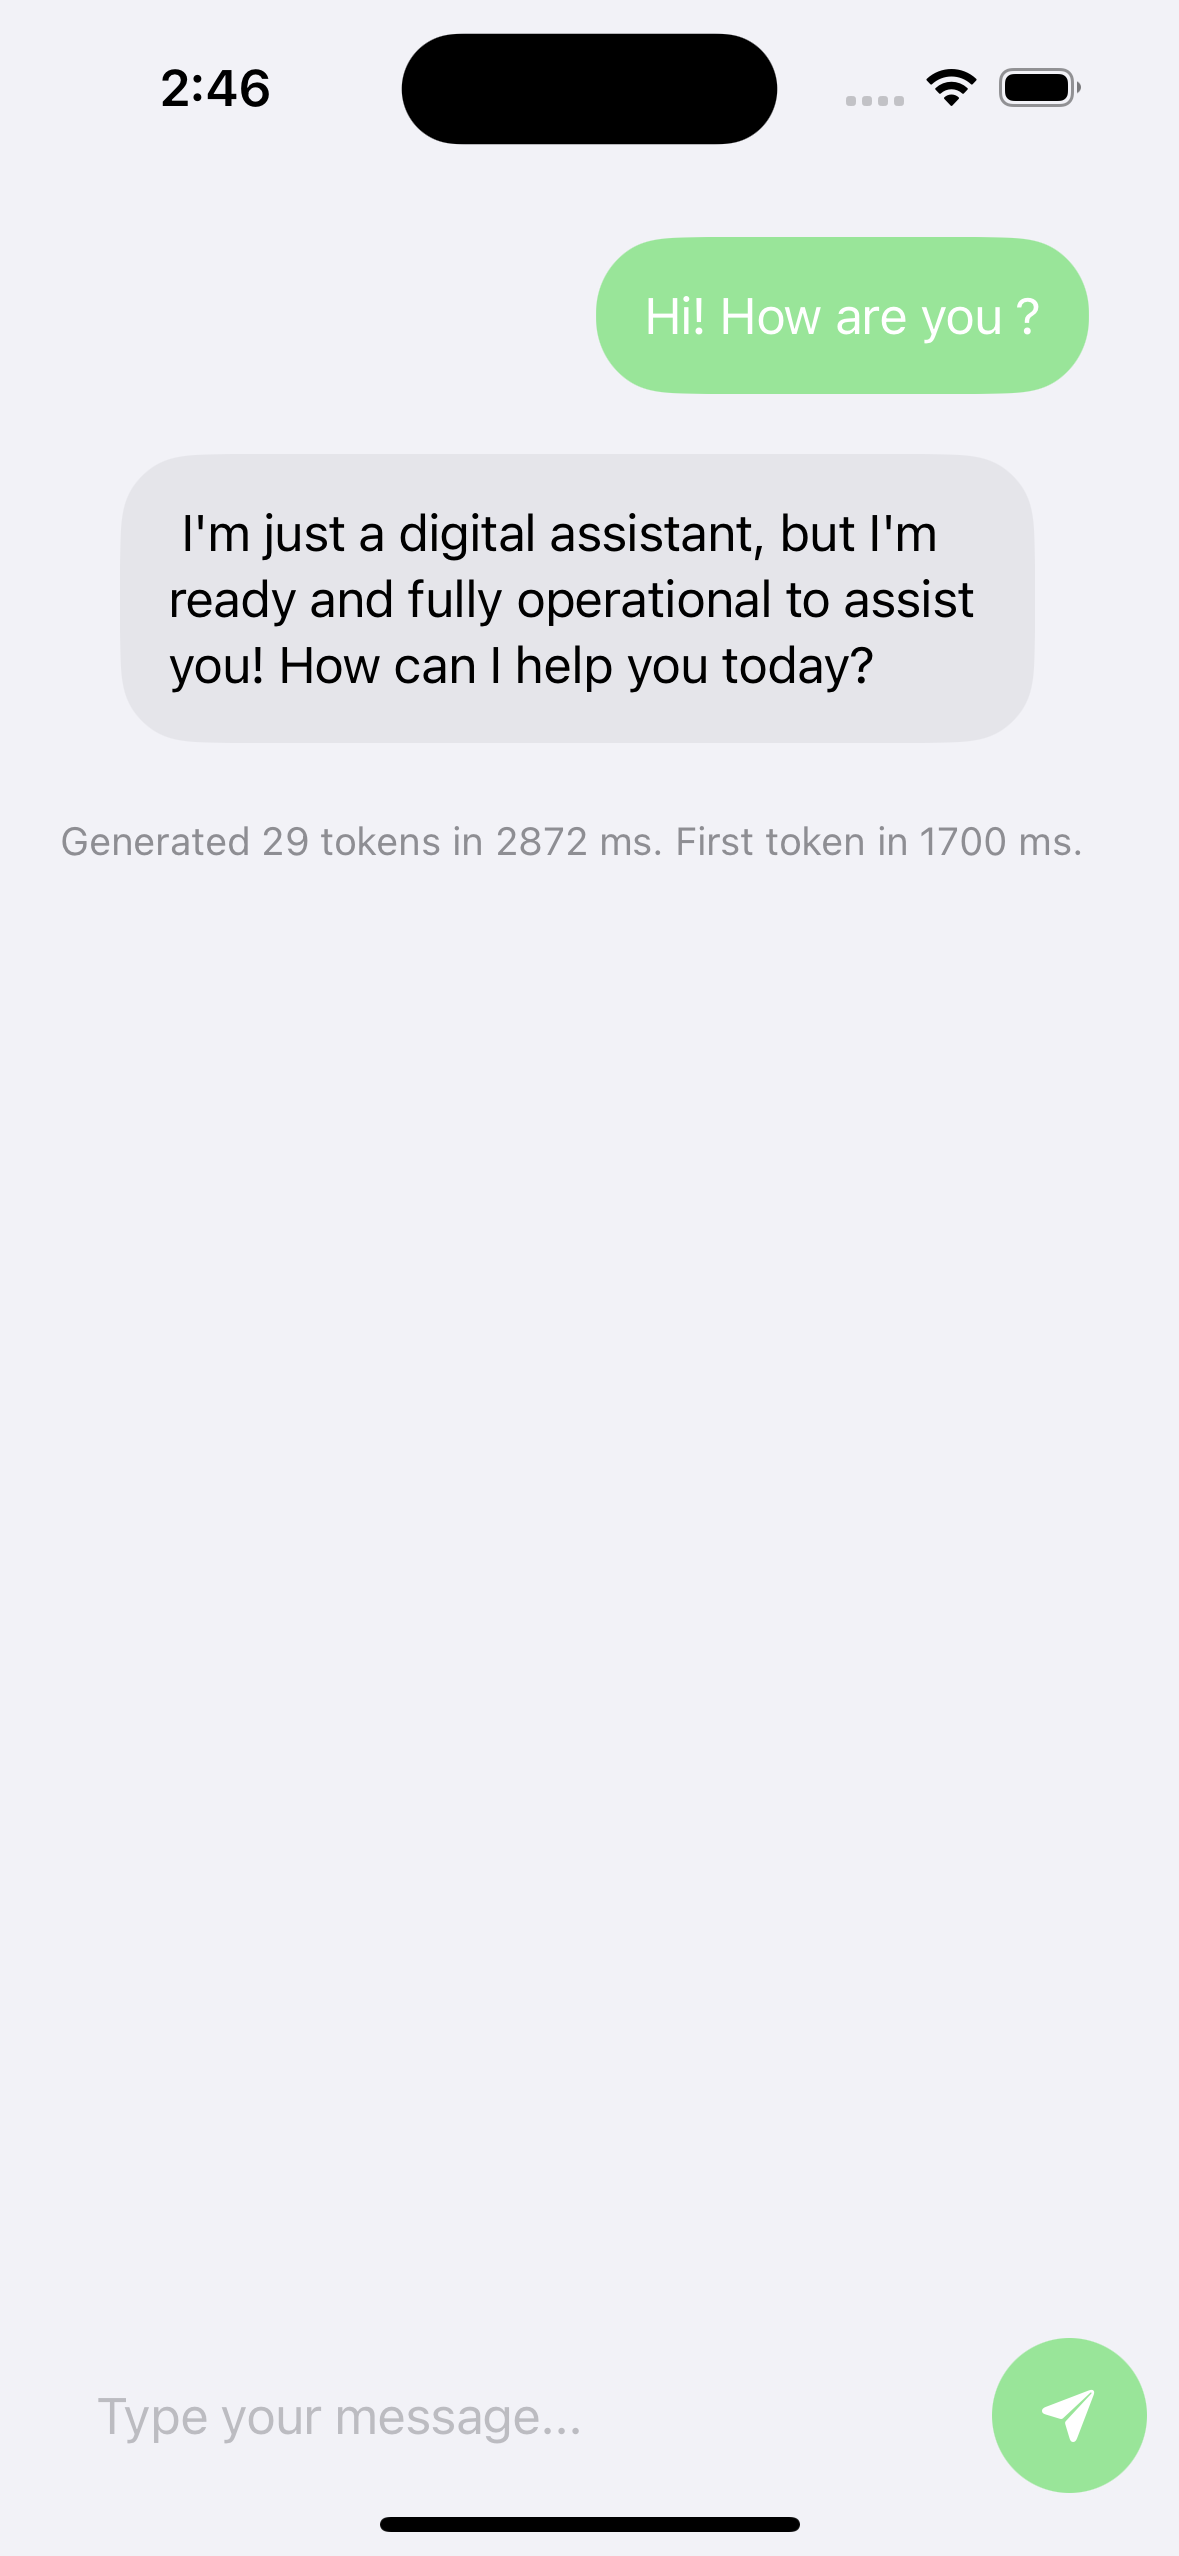
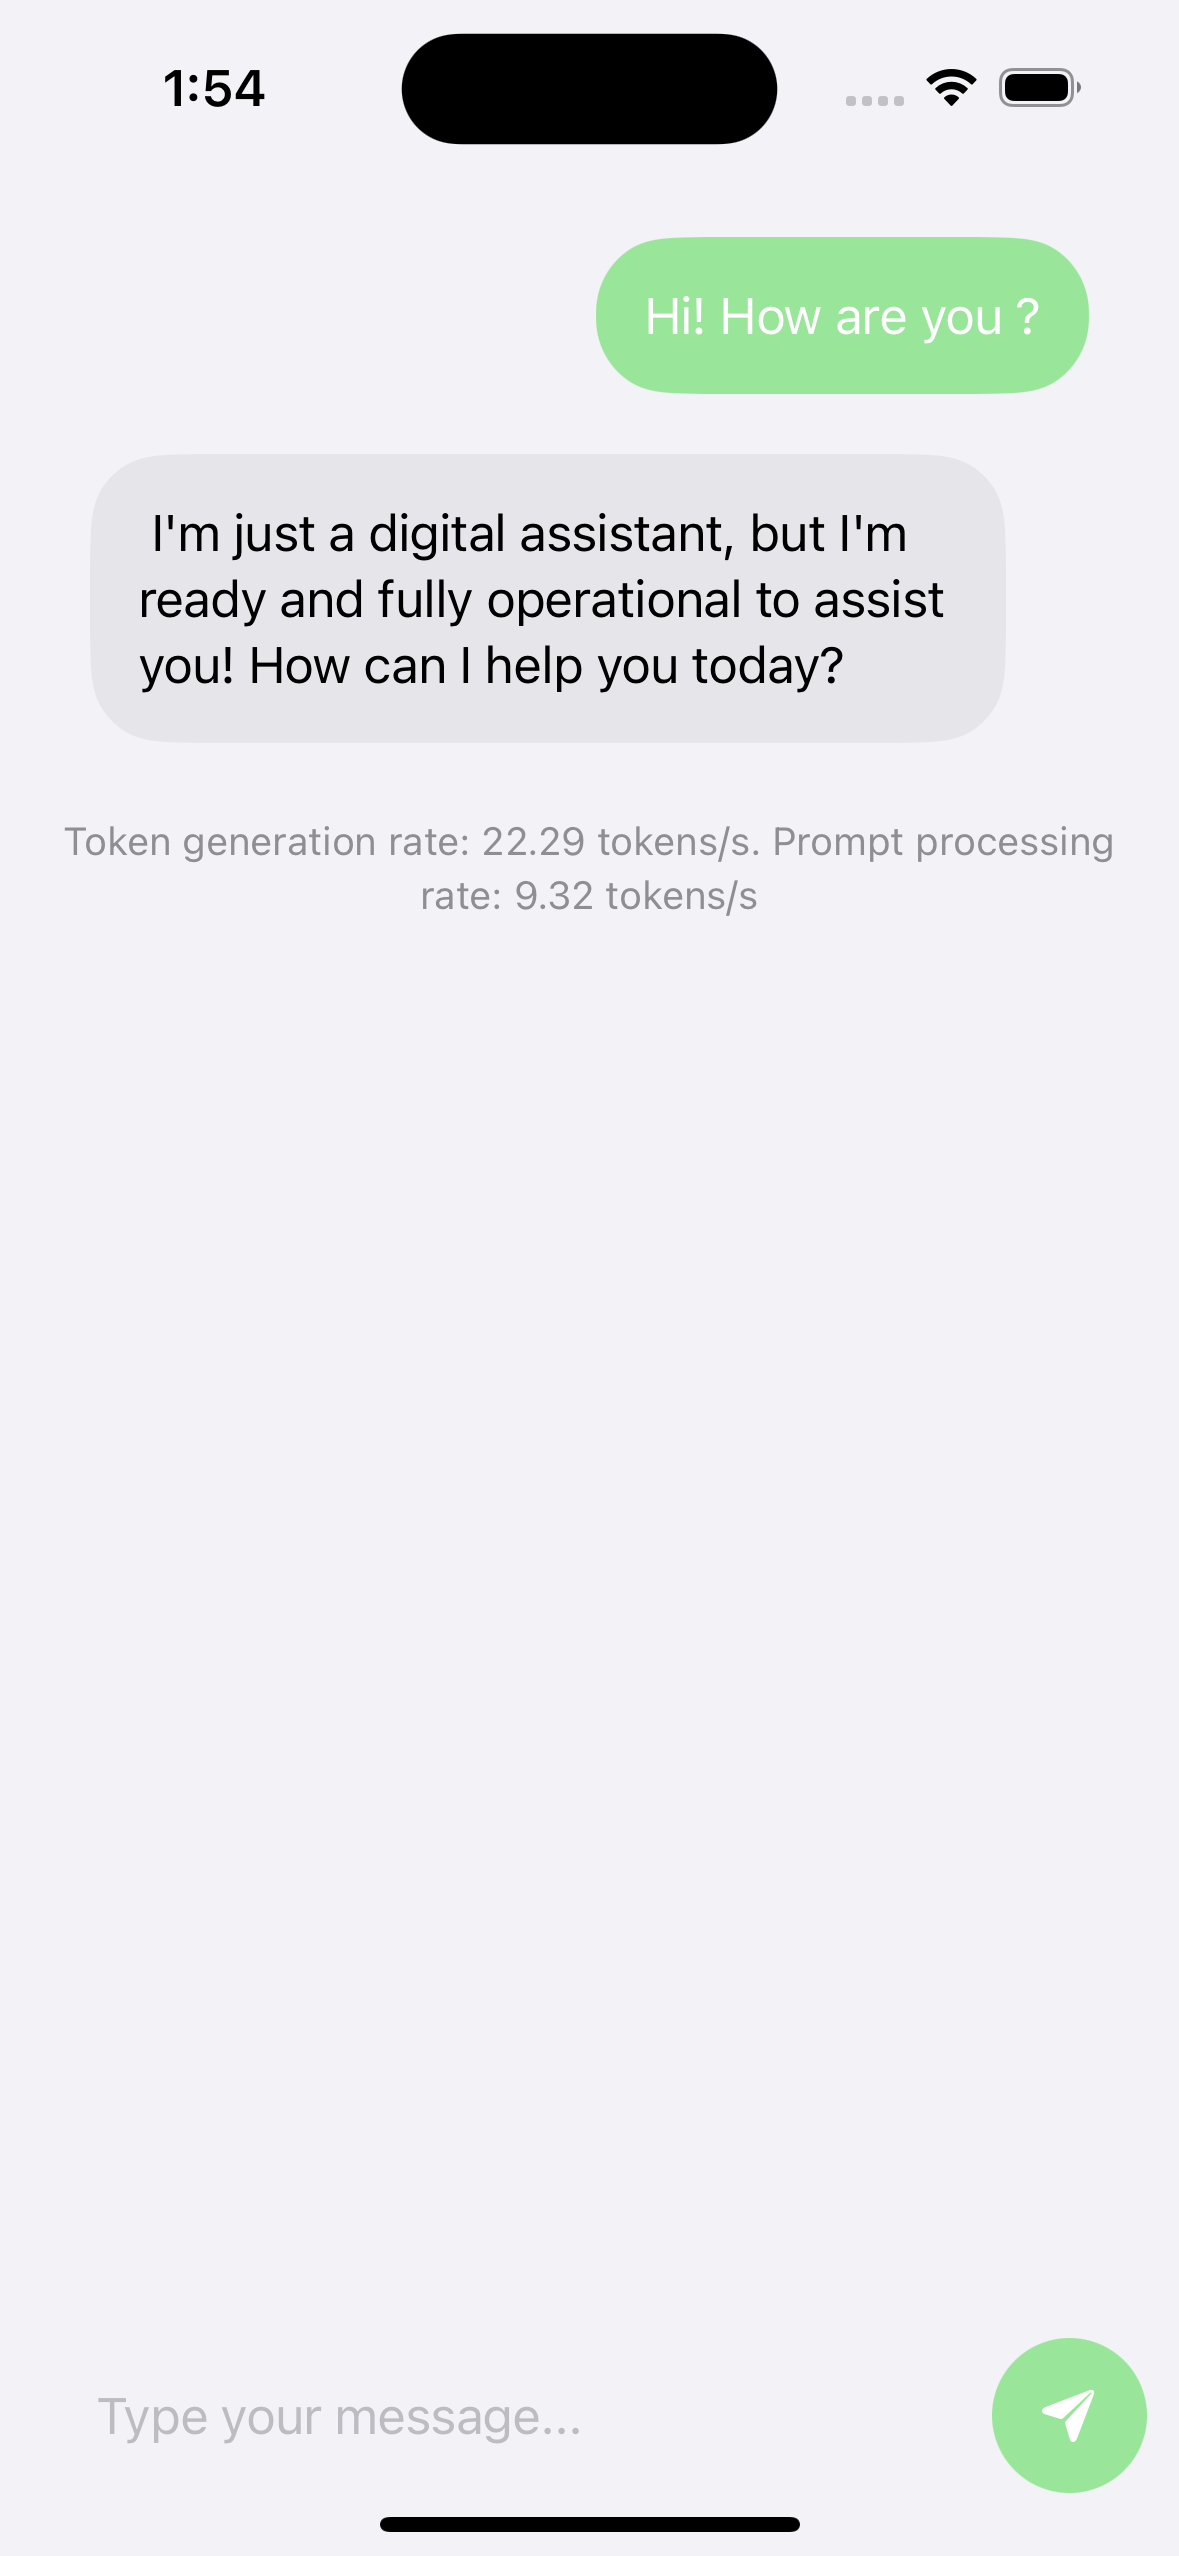
Refactor chat UI and token generation logic, and handle token generation errors

diff --git a/mobile/examples/phi-3/ios/LocalLLM/LocalLLM/ContentView.swift b/mobile/examples/phi-3/ios/LocalLLM/LocalLLM/ContentView.swift
@@ -1,3 +1,6 @@
+// Copyright (c) Microsoft Corporation. All rights reserved.
+// Licensed under the MIT License.
+
 import SwiftUI
 
 
@@ -12,6 +15,8 @@ struct ContentView: View {
     @State private var messages: [Message] = []  // Store chat messages locally
     @State private var isGenerating: Bool = false  // Track token generation state
     @State private var stats: String = ""  // token genetation stats
+    @State private var showAlert: Bool = false
+    @State private var errorMessage: String = ""
     
     var body: some View {
         VStack {
@@ -88,12 +93,25 @@ struct ContentView: View {
         }
         .onReceive(NotificationCenter.default.publisher(for: NSNotification.Name("TokenGenerationStats"))) { notification in
             if let userInfo = notification.userInfo,
-               let totalTime = userInfo["totalTime"] as? Int,
-               let firstTokenTime = userInfo["firstTokenTime"] as? Int,
-               let tokenCount = userInfo["tokenCount"] as? Int {
-                stats = "Generated \(tokenCount) tokens in \(totalTime) ms. First token in \(firstTokenTime) ms."
+               let promptProcRate = userInfo["promptProcRate"] as? Double,
+               let tokenGenRate = userInfo["tokenGenRate"] as? Double {
+                stats = String(format: "Token generation rate: %.2f tokens/s. Prompt processing rate: %.2f tokens/s", tokenGenRate, promptProcRate)
             }
         }
+        .onReceive(NotificationCenter.default.publisher(for: NSNotification.Name("TokenGenerationError"))) { notification in
+            if let userInfo = notification.userInfo, let error = userInfo["error"] as? String {
+                    errorMessage = error
+                    showAlert = true
+            }
+        }
+        .alert(isPresented: $showAlert) {
+            Alert(
+                title: Text("Error"),
+                message: Text(errorMessage),
+                dismissButton: .default(Text("OK"))
+            )
+        }
+        
     }
 }
 
@@ -117,7 +135,7 @@ struct ChatBubble: View {
                     .background(Color(.systemGray5))
                     .foregroundColor(.black)
                     .cornerRadius(25)
-                    .padding(.horizontal, 20)
+                    .padding(.horizontal, 10)
                 Spacer()
             }
         }

diff --git a/mobile/examples/phi-3/ios/LocalLLM/LocalLLM/GenAIGenerator.mm b/mobile/examples/phi-3/ios/LocalLLM/LocalLLM/GenAIGenerator.mm
@@ -1,113 +1,143 @@
 // Copyright (c) Microsoft Corporation. All rights reserved.
 // Licensed under the MIT License.
-
 #import "GenAIGenerator.h"
 #include "LocalLLM-Swift.h"
 #include "ort_genai.h"
 #include "ort_genai_c.h"
 #include <chrono>
+#include <vector>
 
 @implementation GenAIGenerator
 
-typedef std::chrono::high_resolution_clock Clock;
+typedef std::chrono::steady_clock Clock;
 typedef std::chrono::time_point<Clock> TimePoint;
+static std::unique_ptr<OgaModel> model = nullptr;
+static std::unique_ptr<OgaTokenizer> tokenizer = nullptr;
 
 + (void)generate:(nonnull NSString*)input_user_question {
-    NSLog(@"Starting token generation...");
-    
-    NSString* llmPath = [[NSBundle mainBundle] resourcePath];
-    const char* modelPath = llmPath.cString;
-    
-    // Log model creation
-    NSLog(@"Creating model ...");
-    auto model = OgaModel::Create(modelPath);
-    if (!model) {
-        NSLog(@"Failed to create model.");
-        return;
-    }
-    
-    NSLog(@"Creating tokenizer...");
-    auto tokenizer = OgaTokenizer::Create(*model);
-    if (!tokenizer) {
-        NSLog(@"Failed to create tokenizer.");
-        return;
-    }
-    
-    auto tokenizer_stream = OgaTokenizerStream::Create(*tokenizer);
-    
-    // Construct the prompt
-    NSString* promptString = [NSString stringWithFormat:@"<|user|>\n%@<|end|>\n<|assistant|>", input_user_question];
-    const char* prompt = [promptString UTF8String];
-    
-    NSLog(@"Encoding prompt...");
-    auto sequences = OgaSequences::Create();
-    tokenizer->Encode(prompt, *sequences);
-    
-    // Log parameters
-    NSLog(@"Setting generator parameters...");
-    auto params = OgaGeneratorParams::Create(*model);
-    params->SetSearchOption("max_length", 200);
-    params->SetInputSequences(*sequences);
-    
-    NSLog(@"Creating generator...");
-    auto generator = OgaGenerator::Create(*model, *params);
-    
-    bool isFirstToken = true;
-    TimePoint startTime = Clock::now();
-    TimePoint firstTokenTime;
-    int tokenCount = 0;
-    
-    NSLog(@"Starting token generation loop...");
-    while (!generator->IsDone()) {
-        generator->ComputeLogits();
-        generator->GenerateNextToken();
-        
-        if (isFirstToken) {
-            NSLog(@"First token generated.");
-            firstTokenTime = Clock::now();
-            isFirstToken = false;
+    std::vector<long long> tokenTimes; // per-token generation times
+    TimePoint startTime, firstTokenTime, tokenStartTime;
+
+    @try {
+        NSLog(@"Starting token generation...");
+
+        if (!model) {
+            NSLog(@"Creating model...");
+            NSString* llmPath = [[NSBundle mainBundle] resourcePath];
+            const char* modelPath = llmPath.cString;
+            model = OgaModel::Create(modelPath); // throws exception
+
+            if (!model) {
+                @throw [NSException exceptionWithName:@"ModelCreationError" reason:@"Failed to create model." userInfo:nil];
+            }
         }
-        
-        // Get the sequence data
-        const int32_t* seq = generator->GetSequenceData(0);
-        size_t seq_len = generator->GetSequenceCount(0);
-        
-        // Decode the new token
-        const char* decode_tokens = tokenizer_stream->Decode(seq[seq_len - 1]);
-        
-        // Check for decoding failure
-        if (!decode_tokens) {
-            NSLog(@"Token decoding failed.");
-            break;
+
+        if (!tokenizer) {
+            NSLog(@"Creating tokenizer...");
+            tokenizer = OgaTokenizer::Create(*model);  // throws exception
+            if (!tokenizer) {
+                @throw [NSException exceptionWithName:@"TokenizerCreationError" reason:@"Failed to create tokenizer." userInfo:nil];
+            }
         }
+
+        auto tokenizer_stream = OgaTokenizerStream::Create(*tokenizer);
+
+        // Construct the prompt
+        NSString* promptString = [NSString stringWithFormat:@"<|user|>\n%@<|end|>\n<|assistant|>", input_user_question];
+        const char* prompt = [promptString UTF8String];
+
+        // Encode the prompt
+        auto sequences = OgaSequences::Create();
+        tokenizer->Encode(prompt, *sequences);
+
+        size_t promptTokensCount = sequences->SequenceCount(0); 
+
+        NSLog(@"Setting generator parameters...");
+        auto params = OgaGeneratorParams::Create(*model);
+        params->SetSearchOption("max_length", 200);
+        params->SetInputSequences(*sequences);
+
+        auto generator = OgaGenerator::Create(*model, *params);
+
+        bool isFirstToken = true;
+        NSLog(@"Starting token generation loop...");
         
-        NSLog(@"Decoded token: %s", decode_tokens);
-        tokenCount++;
+        startTime = Clock::now();
+        while (!generator->IsDone()) {
+            tokenStartTime = Clock::now();
+
+            generator->ComputeLogits();
+            generator->GenerateNextToken();
+
+            if (isFirstToken) {
+                firstTokenTime = Clock::now();
+                isFirstToken = false;
+            }
+
+            // Get the sequence data and decode the token
+            const int32_t* seq = generator->GetSequenceData(0);
+            size_t seq_len = generator->GetSequenceCount(0);
+            const char* decode_tokens = tokenizer_stream->Decode(seq[seq_len - 1]);
+
+            if (!decode_tokens) {
+                @throw [NSException exceptionWithName:@"TokenDecodeError" reason:@"Token decoding failed." userInfo:nil];
+            }
+
+            // Measure token generation time excluding logging
+            TimePoint tokenEndTime = Clock::now();
+            auto tokenDuration = std::chrono::duration_cast<std::chrono::milliseconds>(tokenEndTime - tokenStartTime).count();
+            tokenTimes.push_back(tokenDuration);
+            NSString* decodedTokenString = [NSString stringWithUTF8String:decode_tokens];
+            [SharedTokenUpdater.shared addDecodedToken:decodedTokenString];
+        }
+
+        TimePoint endTime = Clock::now();
+        // Log token times
+        NSLog(@"Per-token generation times: %@", [self formatTokenTimes:tokenTimes]);
+
+        // Calculate metrics
+        auto totalDuration = std::chrono::duration_cast<std::chrono::milliseconds>(endTime - startTime).count();
+        auto firstTokenDuration = std::chrono::duration_cast<std::chrono::milliseconds>(firstTokenTime - startTime).count();
+
+        double promtProcTime =  (double)promptTokensCount / firstTokenDuration;
+        double tokenGenRate = (double)(tokenTimes.size() - 1) * 1000.0 / (totalDuration - firstTokenDuration);
+
+        NSLog(@"Token generation completed. Total time: %lld ms, First token time: %lld ms, Total tokens: %zu", totalDuration, firstTokenDuration, tokenTimes.size());
+        NSLog(@"Prompt tokens: %zu, Prompt Processing Time: %f tokens/s", promptTokensCount, promtProcTime);
+        NSLog(@"Generated tokens: %zu, Token Generation Rate: %f tokens/s", tokenTimes.size(), tokenGenRate);
+
         
-        // Convert token to NSString and update UI on the main thread
-        NSString* decodedTokenString = [NSString stringWithUTF8String:decode_tokens];
-        [SharedTokenUpdater.shared addDecodedToken:decodedTokenString];
+        NSDictionary *stats = @{
+            @"tokenGenRate" : @(tokenGenRate),
+            @"promptProcRate": @(promtProcTime)
+        };
+        // notify main thread that token generation is complete 
+        dispatch_async(dispatch_get_main_queue(), ^{
+            [[NSNotificationCenter defaultCenter] postNotificationName:@"TokenGenerationStats" object:nil userInfo:stats];
+            [[NSNotificationCenter defaultCenter] postNotificationName:@"TokenGenerationCompleted" object:nil];
+        });
+
+        NSLog(@"Token generation completed.");
+
+    } @catch (NSException* e) {
+        NSString* errorMessage = e.reason;
+        NSLog(@"Error during generation: %@", errorMessage);
+
+        // Send error to the UI
+        NSDictionary *errorInfo = @{@"error": errorMessage};
+        dispatch_async(dispatch_get_main_queue(), ^{
+            [[NSNotificationCenter defaultCenter] postNotificationName:@"TokenGenerationError" object:nil userInfo:errorInfo];
+        });
     }
+}
 
-
-    TimePoint endTime = Clock::now();
-    auto totalDuration = std::chrono::duration_cast<std::chrono::milliseconds>(endTime - startTime).count();
-    auto firstTokenDuration = std::chrono::duration_cast<std::chrono::milliseconds>(firstTokenTime - startTime).count();
-    
-    NSLog(@"Token generation completed. Total time: %lld ms, First token time: %lld ms, Total tokens: %d", totalDuration, firstTokenDuration, tokenCount);
-
-    NSDictionary *stats = @{
-        @"totalTime": @(totalDuration),
-        @"firstTokenTime": @(firstTokenDuration),
-        @"tokenCount": @(tokenCount)
-    };
-
-    // notify main thread that token generation is complete 
-    dispatch_async(dispatch_get_main_queue(), ^{
-        [[NSNotificationCenter defaultCenter] postNotificationName:@"TokenGenerationCompleted" object:nil];
-        [[NSNotificationCenter defaultCenter] postNotificationName:@"TokenGenerationStats" object:nil userInfo:stats];
-    });
-    NSLog(@"Token generation completed.");
+// Utility function to format token times for logging
++ (NSString*)formatTokenTimes:(const std::vector<long long>&)tokenTimes {
+    NSMutableString *formattedTimes = [NSMutableString string];
+    for (size_t i = 0; i < tokenTimes.size(); i++) {
+        [formattedTimes appendFormat:@"%lld ms, ", tokenTimes[i]];
+    }
+    return [formattedTimes copy];
 }
 
 @end
